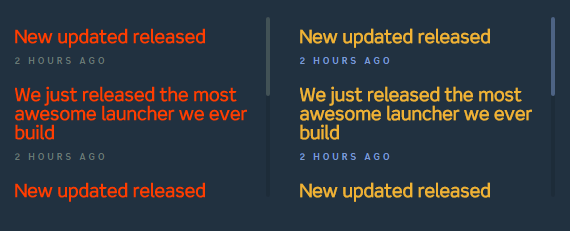
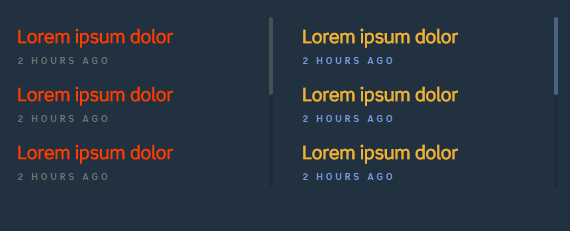
draft for 1.0.0

diff --git a/Readme.md b/Readme.md
@@ -11,7 +11,7 @@ The concept is heavily based on
 
 # Contents
 * [Abstraction](#a-abs)
-* [File Structure](#a-fs)
+* [File Structure Example](#a-fs)
 * [Naming Conventions](#a-nc)
 * [Selector Conventions](#a-sc)
 
@@ -48,6 +48,23 @@ for the concrete modal window. Now we refer to a concrete component in the HTML 
 <div class="dialog dialog-prompt">..</div>
 ```
 
+### Component Example
+
+![](images/a-component.png)
+```html
+<div class="progressbar progressbar-big">
+	<output class="progressbar-status">
+		Install is 70% complete
+	</output>
+	<progress value="70" max="100"></progress>
+	<div class="progressbar-actions">
+		<div class="icon icon-pause">pause</div>
+		<div class="icon icon-play is-hidden">resume</div>
+	</div>
+</div>
+```
+
+
 
 ## Element
 Class | Location
@@ -69,6 +86,19 @@ Similar to Component, Element assumes abstract type and extending types. Handy e
 <div class="btn btn-secondary btn-secondary-light">..</div>
 ```
 
+### Element Example
+
+![](images/a-element.png)
+
+```html
+	<div class="btn btn-primary">OK</div>
+	<div class="btn btn-primary" disabled="">OK</div>
+	<div class="btn btn-secondary"> OK</div>
+	<div class="btn btn-secondary" disabled="">OK</div>
+```
+
+
+
 ## Layout
 
 Class | Location
@@ -87,6 +117,20 @@ Class | Location
 Class | Location
 ----|----
 `.theme-baz .l-foo` | ./Layout/_foo.scss
+
+### Layout Example
+
+![](images/a-layout.png)
+
+```html
+<div class="l-app">
+  <header class="l-app-header">
+   Baz
+  </header>
+  <aside class="l-app-aside">Foo</aside>
+  <div class="l-app-main">Bar</div>
+</div>
+```
 
 
 ## State
@@ -175,11 +219,33 @@ $themes: baz qux;
 }
 ```
 
+### Theme Example
 
+![](images/a-theme.png)
 
+```html
+<div class="theme-foo">
+  <article class="entry">
+    <h2 class="entry-heading">Lorem ipsum dolor</h2>
+    <time datetime="2008-02-14 20:00" class="entry-time">2 hours ago</time>
+  </article>
+  <article class="entry">
+    <h2 class="entry-heading">Lorem ipsum dolor</h2>
+    <time datetime="2008-02-14 20:00" class="entry-time">2 hours ago</time>
+  </article>
+  <article class="entry">
+    <h2 class="entry-heading">Lorem ipsum dolor</h2>
+    <time datetime="2008-02-14 20:00" class="entry-time">2 hours ago</time>
+  </article>
+</div>
+
+<div class="theme-bar">
+...
+</div>
+```
 
 <a id="a-fs"></a>
-File Structure
+File Structure Example
 -------
 
 ```
